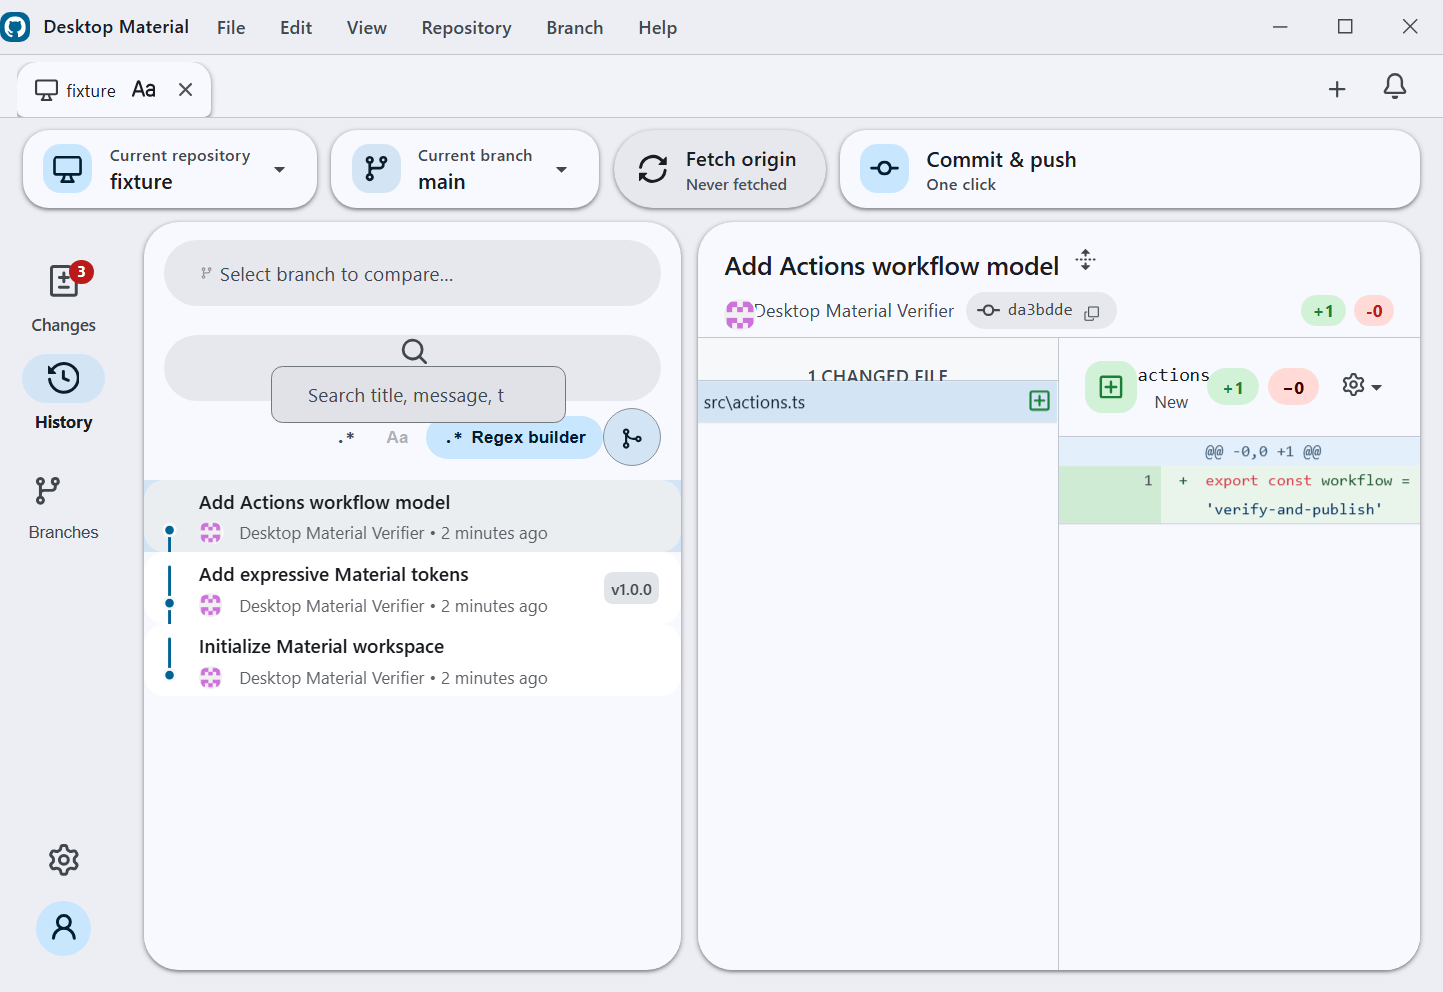
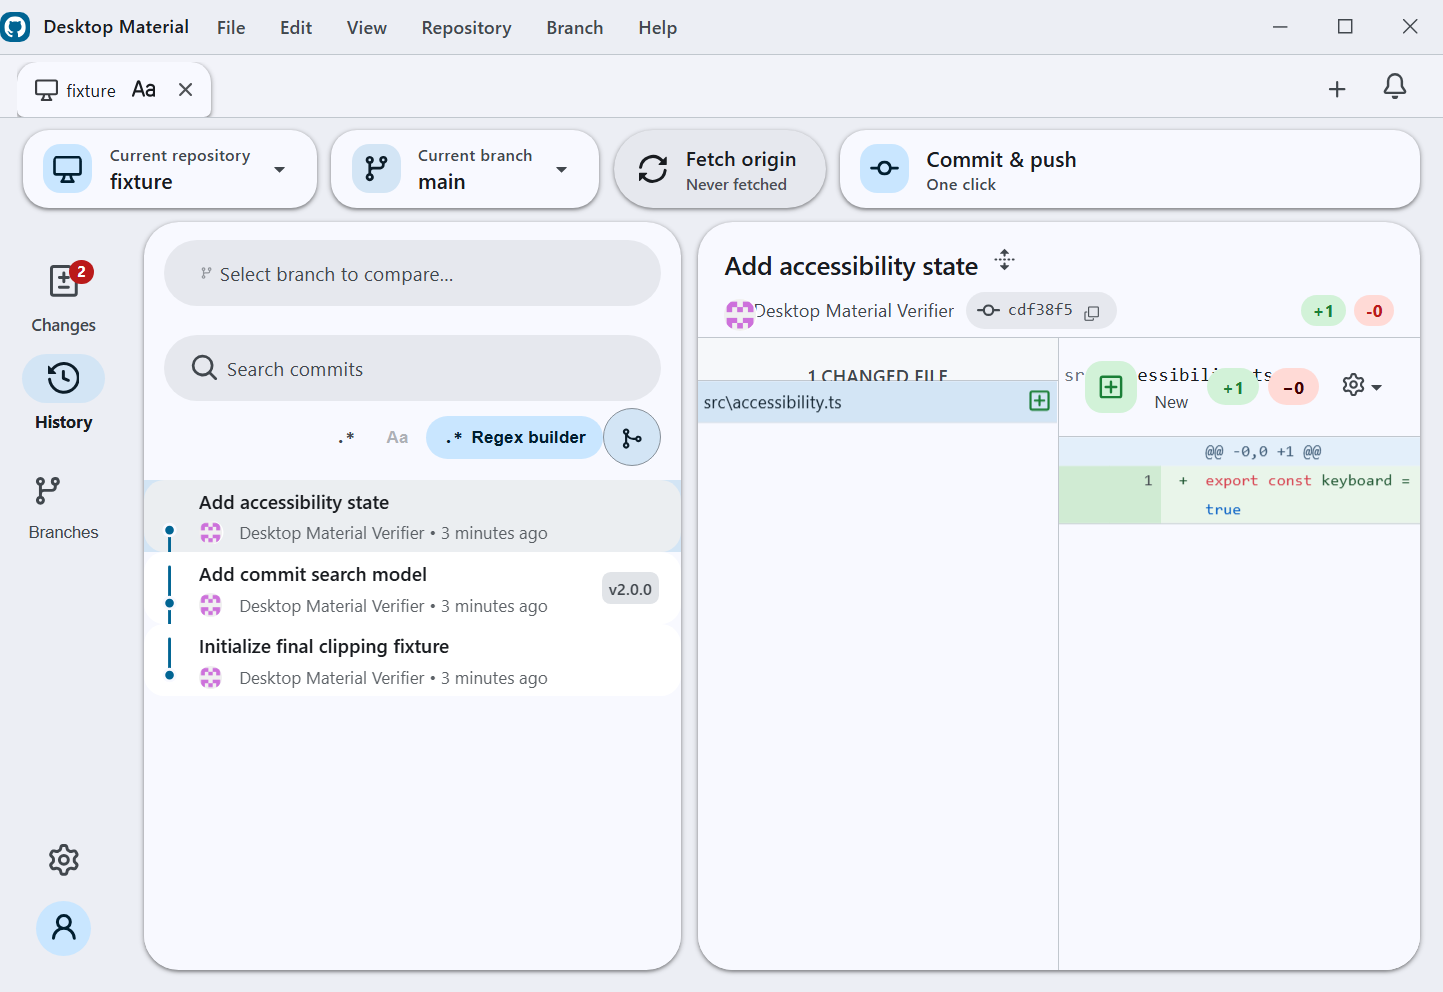
docs: publish final accessibility captures

diff --git a/site/index.html b/site/index.html
@@ -507,6 +507,23 @@
                 Multi-window <span class="tag">Repos · worktrees</span>
               </figcaption>
             </figure>
+
+            <figure class="shot">
+              <a
+                href="../docs/assets/screenshots/material-scale-200-autofit.png"
+                target="_blank"
+                rel="noopener"
+              >
+                <img
+                  src="../docs/assets/screenshots/material-scale-200-autofit.png"
+                  alt="Dark Appearance settings at a requested 200 percent scale, auto-fitted to 96 percent in the minimum window without clipping"
+                  loading="lazy"
+                />
+              </a>
+              <figcaption>
+                200% auto-fit <span class="tag">A11y · no clipping</span>
+              </figcaption>
+            </figure>
           </div>
         </div>
       </section>
@@ -517,8 +534,8 @@
           <div class="cta-card">
             <h2>Build with Desktop Material</h2>
             <p>
-              Clone the repo, follow the wiki, and try the M3 shell for
-              yourself. Contributions welcome — it's early and moving fast.
+              Clone the repo, follow the wiki, and try the completed M0–M18
+              Material roadmap. Contributions and follow-on refinements are welcome.
             </p>
             <div class="hero-cta">
               <a

diff --git a/docs/wiki/User-Guide.md b/docs/wiki/User-Guide.md
@@ -237,9 +237,15 @@ Desktop Material scales its whole interface independently of the OS:
 
 - Open the **scaling slider** and set anywhere from **50% to 200%**.
 - Or choose **auto-fit to window**, which picks a scale that fits the current window size.
+- Auto-fit treats your slider value as the requested maximum. If the window is too small, it caps
+  the effective scale instead of multiplying the requested scale again. At the supported minimum
+  window size, 200% auto-fits to 96% so the title bar, navigation rail, Appearance cards, value,
+  and footer remain visible without horizontal clipping.
 
 Combined with the animated light/dark theme, this lets you tune the workspace for a laptop panel, a
 4K monitor, or a shared screen without touching system display settings.
+
+![Requested 200 percent UI scale auto-fitted to 96 percent at the minimum window size](https://raw.githubusercontent.com/codingmachineedge/desktop-material/main/docs/assets/screenshots/material-scale-200-autofit.png)
 
 ---
 

diff --git a/docs/wiki/Home.md b/docs/wiki/Home.md
@@ -85,9 +85,14 @@ non-modal dialog framework.
   its own selected repository and persisted tab state while commands route to the correct window.
 - **Notification centre** — unread state, mark-all/delete controls, and restoreable history backed by
   a dedicated local git repository.
+- **Clipping-safe scaling** — choose 50–200% UI scaling; auto-fit caps the effective scale when a
+  small window cannot contain the requested size. At the supported minimum window, 200% safely
+  auto-fits to 96% while preserving every title-bar, navigation, Appearance, and footer control.
 
 ![History search and commit ancestry graph](https://raw.githubusercontent.com/codingmachineedge/desktop-material/main/docs/assets/screenshots/material-history-power-tools.png)
 
 ![Provider accounts for GitLab and Bitbucket](https://raw.githubusercontent.com/codingmachineedge/desktop-material/main/docs/assets/screenshots/material-provider-accounts.png)
 
 ![Open repositories and worktrees in another window](https://raw.githubusercontent.com/codingmachineedge/desktop-material/main/docs/assets/screenshots/material-multi-window-menu.png)
+
+![Requested 200 percent UI scale auto-fitted without clipping](https://raw.githubusercontent.com/codingmachineedge/desktop-material/main/docs/assets/screenshots/material-scale-200-autofit.png)

diff --git a/README.md b/README.md
@@ -56,6 +56,7 @@ These features are implemented and live on `main`.
 
 **Dynamic UI scaling**
 - A UI-scale slider (50–200%) in Preferences → Appearance plus auto-fit-to-window that shrinks the interface to fit smaller windows (on by default), composing with `Ctrl` `+` / `-` / `0`
+- At the supported minimum window size, a requested 200% scale safely auto-fits to 96%, keeping the title bar, navigation, Appearance controls, and footer visible without horizontal clipping
 
 **Per-repo `.gitignore` manager**
 - Open **Repository → Manage .gitignore…** for a manager that auto-suggests templates from your repo's contents, a searchable catalog of ~19 templates grouped by category, one-click apply/remove, and a raw editor — all merged into marked, reversible sections
@@ -97,6 +98,8 @@ These features are implemented and live on `main`.
 | **Agent access** — opt-in loopback MCP/REST with bearer-token controls | **Provider accounts** — GitHub, GitLab, Bitbucket, and self-hosted endpoints |
 | ![Open repository and worktree in a new window](docs/assets/screenshots/material-multi-window-menu.png) | ![Live Settings history side sheet](docs/assets/screenshots/settings-history-manager.png) |
 | **Multi-window** — isolated repository/worktree windows and persisted tabs | **Settings history** — Git-backed timeline, diff, Undo, Redo, restore-to-point |
+| ![Appearance settings at a requested 200% scale auto-fitted to 96%](docs/assets/screenshots/material-scale-200-autofit.png) | ![Desktop Material Changes view](docs/assets/screenshots/material-workspace-changes.png) |
+| **200% auto-fit** — minimum-window dark-theme verification with no clipped controls | **Workspace shell** — Material navigation, toolbar, cards, and commit flow |
 
 ## Building
 